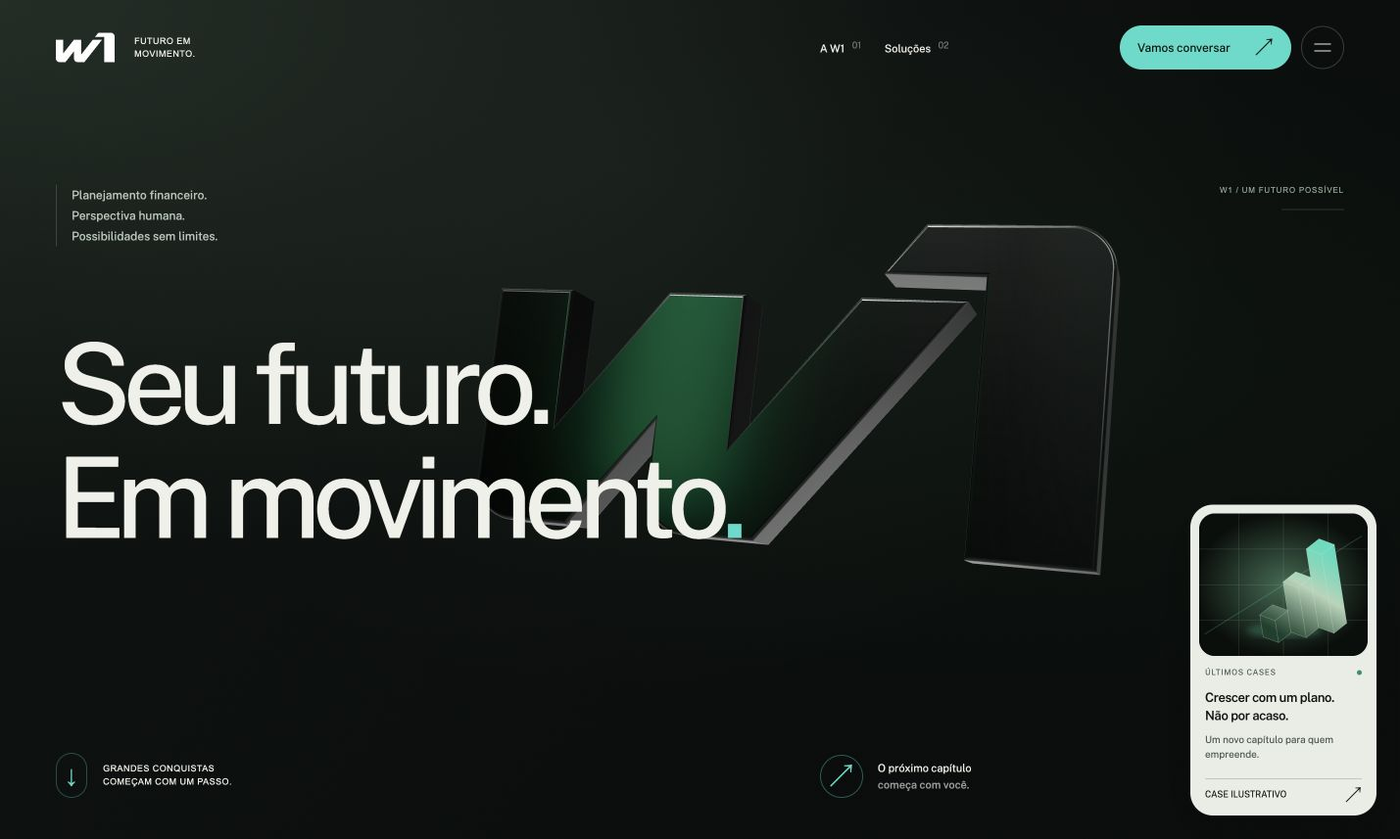
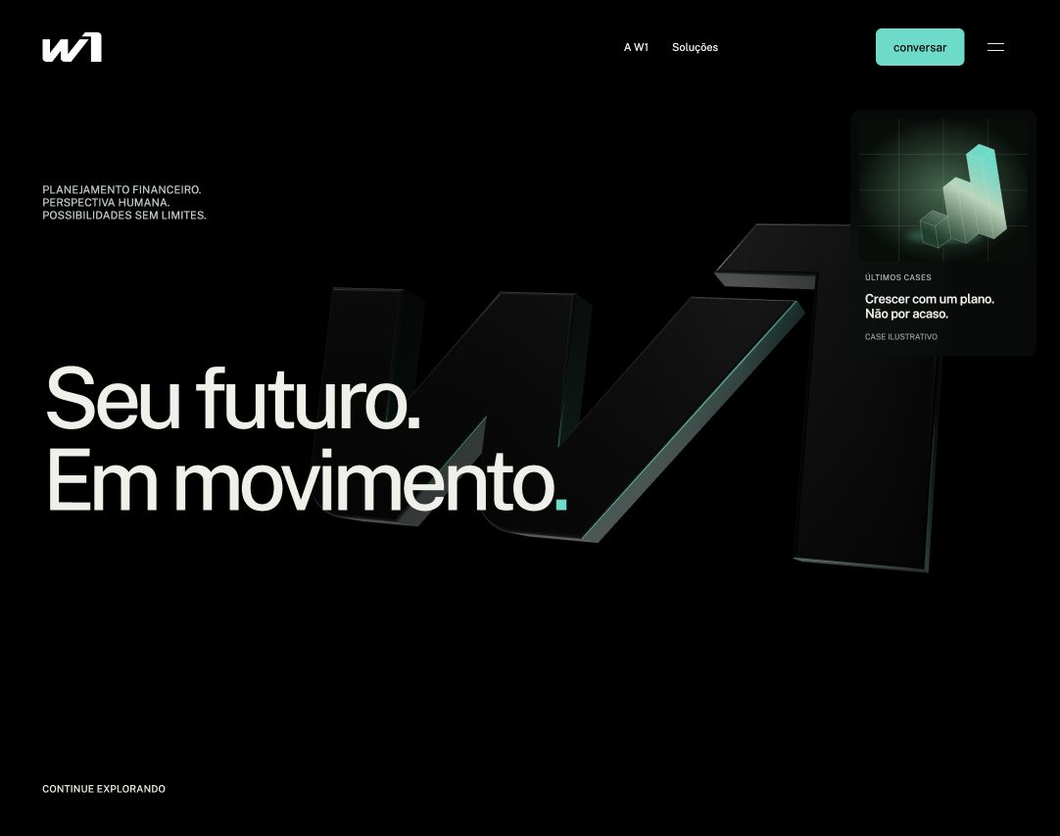
Update Site source

diff --git a/dist/index.html b/dist/index.html
@@ -8,56 +8,55 @@
   <title>W1 — Seu futuro em movimento</title>
   <link rel="icon" href="./assets/w1.svg" type="image/svg+xml">
   <link rel="preload" href="./assets/fonts/PublicSans-Latin.woff2" as="font" type="font/woff2" crossorigin>
-  <link rel="stylesheet" href="./style.css?v=3">
-  <link rel="stylesheet" href="./layout.css?v=3">
+  <link rel="stylesheet" href="./style.css?v=5">
+  <link rel="stylesheet" href="./layout.css?v=5">
+  <link rel="stylesheet" href="./typography.css?v=5">
+  <script>if(!matchMedia('(prefers-reduced-motion: reduce)').matches&&!location.hash){document.documentElement.classList.add('intro-pending');setTimeout(()=>document.documentElement.classList.remove('intro-pending'),6000);}</script>
   <script type="importmap">{"imports":{"three":"./assets/vendor/three.module.js"}}</script>
   <script defer src="./assets/vendor/gsap.min.js"></script>
   <script defer src="./assets/vendor/ScrollTrigger.min.js"></script>
-  <script type="module" src="./app.js?v=3"></script>
+  <script type="module" src="./app.js?v=5"></script>
 </head>
 <body>
 
   <a class="skip-link" href="#solucoes">Ir para as soluções</a>
   <header class="header">
-    <a href="#inicio" class="brand" aria-label="W1 — Início"><img src="./assets/w1.svg" alt="W1" width="72" height="36"><span>FUTURO EM<br>MOVIMENTO.</span></a>
-    <nav class="desktop-nav" aria-label="Navegação principal"><a href="#essencia">A W1 <span>01</span></a><a href="#solucoes">Soluções <span>02</span></a></nav>
-    <div class="header-actions"><a class="contact-pill" href="https://www.w1.com.br/atendimento" target="_blank" rel="noopener">Vamos conversar <span aria-hidden="true">↗</span></a><button class="menu-button" aria-label="Abrir menu" aria-expanded="false" aria-controls="menu"><span></span><span></span></button></div>
+    <a href="#inicio" class="brand" aria-label="W1 — Início"><img src="./assets/w1.svg" alt="W1" width="72" height="36"></a>
+    <nav class="desktop-nav" aria-label="Navegação principal"><a href="#essencia">A W1</a><a href="#solucoes">Soluções</a></nav>
+    <div class="header-actions"><a class="contact-pill" href="https://www.w1.com.br/atendimento" target="_blank" rel="noopener">conversar </a><button class="menu-button" aria-label="Abrir menu" aria-expanded="false" aria-controls="menu"><span></span><span></span></button></div>
   </header>
   <div id="menu" class="menu-overlay" hidden inert>
     <span class="eyebrow">EXPLORE NOVAS POSSIBILIDADES</span>
-    <nav aria-label="Menu"><a href="#inicio"><small>00</small> Início <span>↗</span></a><a href="#essencia"><small>01</small> A essência <span>↗</span></a><a href="#solucoes"><small>02</small> Soluções <span>↗</span></a><a href="#contato"><small>03</small> Seu próximo passo <span>↗</span></a></nav>
+    <nav aria-label="Menu"><a href="#inicio">Início <span></span></a><a href="#essencia">A essência <span></span></a><a href="#solucoes">Soluções <span></span></a><a href="#contato">Seu próximo passo <span></span></a></nav>
     <p>Seu próximo passo começa aqui.</p>
   </div>
   <main>
     <div class="dark-journey" id="inicio">
       <div class="visual-sticky" aria-hidden="true"><div class="ambient-glow"></div><div id="logo-stage"><img class="logo-fallback" src="./assets/w1.svg" alt=""></div></div>
       <section class="hero" aria-labelledby="hero-title">
-        <div class="hero-top"><p>Planejamento financeiro.<br>Perspectiva humana.<br>Possibilidades sem limites.</p><span class="eyebrow hero-index">W1 / UM FUTURO POSSÍVEL</span></div>
+        <div class="hero-top"><p>Planejamento financeiro.<br>Perspectiva humana.<br>Possibilidades sem limites.</p></div>
         <h1 id="hero-title"><span>Seu futuro.</span><span class="second-line">Em movimento<span class="title-period">.</span></span></h1>
         <button type="button" class="case-card" aria-haspopup="dialog" aria-controls="case-dialog">
           <span class="case-card-visual"><img src="./assets/case-preview.svg" alt="Estudo visual de crescimento com formas tridimensionais" width="400" height="320"></span>
-          <span class="case-card-copy"><span class="case-card-label">ÚLTIMOS CASES <i aria-hidden="true"></i></span><span class="case-card-title">Crescer com um plano.<br>Não por acaso.</span><span class="case-card-description">Um novo capítulo para quem empreende.</span><span class="case-card-footer"><span>CASE ILUSTRATIVO</span><span aria-hidden="true">↗</span></span></span>
+          <span class="case-card-copy"><span class="case-card-label">ÚLTIMOS CASES </span><span class="case-card-title">Crescer com um plano.<br>Não por acaso.</span><span class="case-card-footer"><span>CASE ILUSTRATIVO</span></span></span>
         </button>
-        <div class="hero-bottom"><a class="scroll-cue" href="#essencia"><span class="scroll-line" aria-hidden="true">↓</span><span>GRANDES CONQUISTAS<br>COMEÇAM COM UM PASSO.</span></a><a class="hero-cta" href="https://www.w1.com.br/atendimento" target="_blank" rel="noopener"><span class="arrow-orbit" aria-hidden="true">↗</span><span>O próximo capítulo<br><strong>começa com você.</strong></span></a></div>
+        <div class="hero-bottom"><a class="scroll-cue" href="#essencia"><span>continue explorando</span></a></div>
       </section>
       <section class="manifesto" id="essencia" aria-labelledby="manifesto-title">
-        <div class="section-meta"><span class="eyebrow"><i></i> 01 / A W1</span><span class="eyebrow">PLANEJAMENTO QUE ACOMPANHA VOCÊ.</span></div>
-        <div class="manifesto-copy"><h2 id="manifesto-title">Sua vida é única.<br>Seu planejamento<br><em>também precisa ser.</em></h2><div class="manifesto-aside"><span class="mini-line"></span><p>Somos a W1. Um ecossistema que une conhecimento financeiro, tecnologia e um olhar humano para acompanhar as suas ambições.</p><a class="text-link" href="#solucoes">Conheça nossas soluções <span>↗</span></a></div></div>
-        <div class="manifesto-bottom"><span class="eyebrow">DO PRIMEIRO PLANO AO SEU LEGADO.</span><span class="eyebrow">SEMPRE EM FRENTE. ↘</span></div>
+        <div class="manifesto-copy"><h2 id="manifesto-title">Sua vida é única.<br>Seu planejamento<br><em>também precisa ser.</em></h2><div class="manifesto-aside"><p>Somos a W1. Um ecossistema que une conhecimento financeiro, tecnologia e um olhar humano para acompanhar as suas ambições.</p><a class="text-link" href="#solucoes">Conheça nossas soluções <span></span></a></div></div>
       </section>
-      <div class="marquee" aria-label="Planejar, conquistar, transformar, evoluir"><div class="marquee-track" aria-hidden="true"><span>PLANEJAR <b>↗</b> CONQUISTAR <b>✳</b> TRANSFORMAR <b>↗</b> EVOLUIR <b>✳</b>&nbsp;</span><span>PLANEJAR <b>↗</b> CONQUISTAR <b>✳</b> TRANSFORMAR <b>↗</b> EVOLUIR <b>✳</b>&nbsp;</span></div></div>
+      <div class="marquee" aria-label="Planejar, conquistar, transformar, evoluir"><div class="marquee-track" aria-hidden="true"><span>PLANEJAR  CONQUISTAR  TRANSFORMAR  EVOLUIR &nbsp;</span><span>PLANEJAR  CONQUISTAR  TRANSFORMAR  EVOLUIR &nbsp;</span></div></div>
     </div>
     <section class="solutions" id="solucoes" aria-labelledby="solutions-title">
-      <div class="section-meta"><span class="eyebrow"><i></i> 02 / POSSIBILIDADES REAIS</span><span class="eyebrow">UM ECOSSISTEMA. O SEU MOMENTO.</span></div>
       <div class="solutions-intro"><h2 id="solutions-title">Muito além<br>dos <span>números.</span></h2><p>Uma visão completa das suas finanças.<br>Um caminho que faz sentido para você.</p></div>
       <div class="solution-list">
-        <details open><summary><span class="solution-number">01</span><h3>Planejamento financeiro</h3><span class="solution-tag">O SEU PONTO DE PARTIDA</span><span class="solution-plus">+</span></summary><div class="solution-content"><p>Clareza para decidir. Estratégia para avançar. Um planejamento financeiro 360° construído a partir da sua vida e dos seus objetivos.</p><a href="https://www.w1.com.br/w1-consultoria" target="_blank" rel="noopener">Explore a W1 Consultoria <span>↗</span></a></div></details>
-        <details><summary><span class="solution-number">02</span><h3>Investimentos</h3><span class="solution-tag">CAPITAL COM PROPÓSITO</span><span class="solution-plus">+</span></summary><div class="solution-content"><p>Assessoria de investimentos alinhada ao seu perfil e ao futuro que você deseja construir.</p><a href="https://www.w1.com.br/w1-capital" target="_blank" rel="noopener">Conheça a W1 Capital <span>↗</span></a></div></details>
-        <details><summary><span class="solution-number">03</span><h3>Patrimônio & legado</h3><span class="solution-tag">PENSE NAS PRÓXIMAS GERAÇÕES</span><span class="solution-plus">+</span></summary><div class="solution-content"><p>Planejamento sucessório e estruturação patrimonial para dar continuidade à sua história.</p><a href="https://www.w1.com.br/w1-consultoria-patrimonial" target="_blank" rel="noopener">Explore a Consultoria Patrimonial <span>↗</span></a></div></details>
-        <details><summary><span class="solution-number">04</span><h3>Seu negócio</h3><span class="solution-tag">VISÃO PARA CRESCER</span><span class="solution-plus">+</span></summary><div class="solution-content"><p>Planejamento financeiro que considera as necessidades e os próximos desafios da sua empresa.</p><a href="https://www.w1.com.br/w1-business" target="_blank" rel="noopener">Conheça a W1 Business <span>↗</span></a></div></details>
+        <details open><summary><h3>Planejamento financeiro</h3><span class="solution-plus">+</span></summary><div class="solution-content"><p>Clareza para decidir. Estratégia para avançar. Um planejamento financeiro 360° construído a partir da sua vida e dos seus objetivos.</p><a href="https://www.w1.com.br/w1-consultoria" target="_blank" rel="noopener">Explore a W1 Consultoria <span></span></a></div></details>
+        <details><summary><h3>Investimentos</h3><span class="solution-plus">+</span></summary><div class="solution-content"><p>Assessoria de investimentos alinhada ao seu perfil e ao futuro que você deseja construir.</p><a href="https://www.w1.com.br/w1-capital" target="_blank" rel="noopener">Conheça a W1 Capital <span></span></a></div></details>
+        <details><summary><h3>Patrimônio & legado</h3><span class="solution-plus">+</span></summary><div class="solution-content"><p>Planejamento sucessório e estruturação patrimonial para dar continuidade à sua história.</p><a href="https://www.w1.com.br/w1-consultoria-patrimonial" target="_blank" rel="noopener">Explore a Consultoria Patrimonial <span></span></a></div></details>
+        <details><summary><h3>Seu negócio</h3><span class="solution-plus">+</span></summary><div class="solution-content"><p>Planejamento financeiro que considera as necessidades e os próximos desafios da sua empresa.</p><a href="https://www.w1.com.br/w1-business" target="_blank" rel="noopener">Conheça a W1 Business <span></span></a></div></details>
       </div>
     </section>
-    <footer id="contato"><div class="footer-top"><span class="eyebrow"><i></i> O SEU PRÓXIMO PASSO</span><span class="eyebrow">VAMOS CONSTRUIR JUNTOS.</span></div><a class="footer-cta" href="https://www.w1.com.br/atendimento" target="_blank" rel="noopener">O futuro<br>começa agora.<span aria-hidden="true">↗</span></a><div class="footer-bottom"><img src="./assets/w1.svg" alt="W1" width="64" height="32"><span>© 2026 W1 · Estudo de experiência digital</span><a href="#inicio">Voltar ao início ↑</a></div></footer>
+    <footer id="contato"><a class="footer-cta" href="https://www.w1.com.br/atendimento" target="_blank" rel="noopener">O futuro<br>começa agora.</a><div class="footer-bottom"><img src="./assets/w1.svg" alt="W1" width="64" height="32"><span>© 2026 W1 · Estudo de experiência digital</span><a href="#inicio">Voltar ao início </a></div></footer>
   </main>
   <dialog id="case-dialog" class="case-dialog" aria-labelledby="case-title">
     <button type="button" class="case-dialog-close" aria-label="Fechar case">×</button>
@@ -66,7 +65,7 @@
     <p class="case-intro">Clínica Aurora · empresa fictícia</p>
     <div class="case-steps"><div><span>01 / O MOMENTO</span><h3>Vontade de expandir.</h3><p>Uma clínica em crescimento precisa organizar o caixa antes de dar o próximo passo e abrir uma nova unidade.</p></div><div><span>02 / O CAMINHO</span><h3>Clareza para decidir.</h3><p>Um cenário de planejamento reúne custos, reservas e metas para avaliar o momento e o tamanho da expansão.</p></div><div><span>03 / A POSSIBILIDADE</span><h3>Um plano para crescer.</h3><p>A simulação mostra como decisões financeiras podem se conectar aos objetivos do negócio.</p></div></div>
     <p class="case-disclaimer">Case fictício criado para demonstrar esta proposta de página. Não representa um cliente, serviço contratado ou resultado real da W1.</p>
-    <a class="contact-pill" href="https://www.w1.com.br/atendimento" target="_blank" rel="noopener">Vamos conversar <span>↗</span></a>
+    <a class="contact-pill" href="https://www.w1.com.br/atendimento" target="_blank" rel="noopener">conversar <span></span></a>
   </dialog>
 </body>
 </html>

diff --git a/dist/app.js b/dist/app.js
@@ -7,10 +7,40 @@ const motionQuery = window.matchMedia('(prefers-reduced-motion: reduce)');
 const mobile = () => window.innerWidth <= 800;
 const state = { light: 0, turn: 0, size: 1, x: .85, y: 0, alpha: 1, pointerX: 0, pointerY: 0 };
 const pointer = { x: 0, y: 0 };
-const arrival = { progress: motionQuery.matches ? 1 : 0 };
+const introRoot = document.documentElement;
+if (motionQuery.matches) introRoot.classList.remove('intro-pending');
+const startsWithLogo = introRoot.classList.contains('intro-pending');
+const arrival = { progress: startsWithLogo ? 0 : 1, reveal: startsWithLogo ? 0 : 1 };
 let renderer, scene, camera, logo, animationFrame, greenSoftbox;
 let isVisible = true;
 const stage = document.getElementById('logo-stage');
+
+function createSurfaceTexture() {
+  const size = 128;
+  const pixels = new Uint8Array(size * size * 4);
+  let seed = 731;
+  for (let i = 0; i < size * size; i++) {
+    seed = (seed * 1664525 + 1013904223) >>> 0;
+    const grain = 204 + (seed >>> 29);
+    pixels[i*4] = pixels[i*4+1] = pixels[i*4+2] = grain;
+    pixels[i*4+3] = 255;
+  }
+  const texture = new THREE.DataTexture(pixels, size, size);
+  texture.wrapS = texture.wrapT = THREE.RepeatWrapping;
+  texture.repeat.set(.065, .065);
+  texture.minFilter = THREE.LinearMipmapLinearFilter;
+  texture.magFilter = THREE.LinearFilter;
+  texture.generateMipmaps = true;
+  texture.needsUpdate = true;
+  return texture;
+}
+
+function revealInterface() {
+  introRoot.classList.remove('intro-pending');
+  if (window.gsap) {
+    window.gsap.fromTo('.header, .hero-top, .hero h1, .hero-bottom, .case-card', { autoAlpha: 0 }, { autoAlpha: 1, duration: .55, stagger: .045, ease: 'power2.out', onComplete: () => window.ScrollTrigger?.refresh() });
+  }
+}
 
 async function createLogo() {
   try {
@@ -27,24 +57,36 @@ async function createLogo() {
     const pmrem = new THREE.PMREMGenerator(renderer);
     const room = new RoomEnvironment();
     scene.environment = pmrem.fromScene(room, .04).texture;
-    scene.environmentIntensity = .7;
+    scene.environmentIntensity = .35;
     room.dispose();
     pmrem.dispose();
-    const key = new THREE.DirectionalLight(0xffffff, 1.8);
-    key.position.set(-4, 6, 5);
+    const key = new THREE.DirectionalLight(0xffffff, 1.1);
+    key.position.set(-4, 6, 2);
     scene.add(key);
-    const rim = new THREE.DirectionalLight(0xadbdb6, 1.4);
+    const rim = new THREE.DirectionalLight(0xb6bdb9, .8);
     rim.position.set(5, 2, -2);
     scene.add(rim);
-    const lower = new THREE.DirectionalLight(0xc9ddd4, .65);
+    const lower = new THREE.DirectionalLight(0xd4d8d5, .3);
     lower.position.set(1, -5, 3);
     scene.add(lower);
     // A physical green strip light sweeps across the black metal as you scroll.
     // The material itself keeps its original graphite color throughout.
     RectAreaLightUniformsLib.init();
-    greenSoftbox = new THREE.RectAreaLight(0x32e6a3, 16, 1.8, 6);
+    greenSoftbox = new THREE.RectAreaLight(0x32ddc9, 22, 2.2, 6);
     scene.add(greenSoftbox);
-    const material = new THREE.MeshPhysicalMaterial({ color: 0x1b211e, metalness: .96, roughness: .24, clearcoat: 1, clearcoatRoughness: .19, envMapIntensity: 1.9 });
+    const surface = createSurfaceTexture();
+    const faceMaterial = new THREE.MeshPhysicalMaterial({ color: 0x090b0a, metalness: .28, roughness: .48, roughnessMap: surface, bumpMap: surface, bumpScale: .002, clearcoat: .85, clearcoatRoughness: .22, envMapIntensity: .65 });
+    const edgeMaterial = new THREE.MeshPhysicalMaterial({ color: 0x111714, metalness: .55, roughness: .23, clearcoat: 1, clearcoatRoughness: .14, envMapIntensity: 1.2 });
+    // Keep the broad black face neutral; the bevel and side material carry
+    // the colored rim. This avoids a bright green wash over the core.
+    faceMaterial.onBeforeCompile = shader => {
+      shader.fragmentShader = shader.fragmentShader.replace('#include <opaque_fragment>', `
+        float neutralFinish = min(outgoingLight.r, min(outgoingLight.g, outgoingLight.b));
+        outgoingLight = vec3(neutralFinish) + (outgoingLight - vec3(neutralFinish)) * 0.06;
+        #include <opaque_fragment>
+      `);
+    };
+    const material = [faceMaterial, edgeMaterial];
     const response = await fetch('./assets/w1.svg');
     if (!response.ok) throw new Error('Logo indisponível');
     const svg = new SVGLoader().parse(await response.text());
@@ -68,13 +110,18 @@ async function createLogo() {
       document.body.classList.remove('webgl-ready');
     });
     renderer.domElement.addEventListener('webglcontextrestored', () => { document.body.classList.add('webgl-ready'); tick(); });
-    if (window.gsap && !motionQuery.matches && window.scrollY < window.innerHeight * .25) {
-      window.gsap.to(arrival, { progress: 1, duration: 2.2, ease: 'power3.inOut' });
+    if (window.gsap && introRoot.classList.contains('intro-pending')) {
+      const opening = window.gsap.timeline({ defaults: { ease: 'power3.inOut' } });
+      opening.to(arrival, { reveal: 1, duration: .25 }, 0)
+        .to(arrival, { progress: 1, duration: 1.35 }, .15)
+        .call(revealInterface);
     } else {
-      arrival.progress = 1;
+      arrival.progress = arrival.reveal = 1;
+      introRoot.classList.remove('intro-pending');
     }
     tick();
   } catch (error) {
+    introRoot.classList.remove('intro-pending');
     console.warn('Exibindo a versão vetorial da marca.', error.message);
     renderer?.domElement.remove();
     document.body.classList.remove('webgl-ready');
@@ -98,14 +145,15 @@ function tick() {
   const fitScale = mobile() ? Math.min(.84, camera.aspect * .9) : Math.min(.88, camera.aspect * .75);
   const enter = reduced ? 1 : arrival.progress;
   const intro = 1 - enter;
-  logo.rotation.set(-.16 + intro*.11 + state.turn*.06 + state.pointerY*.08, -.34 + intro*.24 - state.turn*.12 + state.pointerX*.12, -.11 + intro*.11 + state.turn*.035);
+  logo.rotation.set(-.16 + state.turn*.04 + state.pointerY*.08, -.34 - state.turn*.1 + state.pointerX*.12, -.11 + state.turn*.025);
   logo.position.set(mobile() ? 0 : state.x * enter, (.35 + state.y) * enter, 0);
-  logo.scale.setScalar(fitScale * state.size * (1 + intro * .45));
+  logo.scale.setScalar(fitScale * state.size * (1 + intro * .28));
   const progress = reduced ? .15 : state.light;
-  greenSoftbox.position.set(logo.position.x - 5 + progress * 11, 3.5 - progress * 5, 4.5);
+  const angle = -.85 + progress * Math.PI * 1.6;
+  greenSoftbox.position.set(logo.position.x + Math.cos(angle) * 5.4, logo.position.y + Math.sin(angle) * 3.8, -.25);
   greenSoftbox.lookAt(logo.position.x, logo.position.y, 0);
-  greenSoftbox.intensity = (10 + Math.sin(progress * Math.PI) * 14) * (.25 + .75 * enter);
-  renderer.domElement.style.opacity = String(state.alpha);
+  greenSoftbox.intensity = (18 + Math.sin(progress * Math.PI) * 12) * enter * enter;
+  renderer.domElement.style.opacity = String(state.alpha * arrival.reveal);
   renderer.render(scene, camera);
 }
 
@@ -126,7 +174,6 @@ if (gsap && ScrollTrigger) {
   media.add({ full: '(prefers-reduced-motion: no-preference)', reduced: '(prefers-reduced-motion: reduce)' }, context => {
     gsap.set(state, { light: 0, turn: 0, size: 1, x: .85, y: 0, alpha: 1 });
     if (context.conditions.full) {
-      gsap.from('.hero h1 > span', { yPercent: 20, autoAlpha: 0, duration: 1.2, delay: .65, stagger: .1, ease: 'power3.out' });
       gsap.fromTo('.hero h1', { y: 0, autoAlpha: 1 }, { y: -70, autoAlpha: 0, ease: 'none', scrollTrigger: { trigger: '.hero', start: '12% top', end: 'bottom 20%', scrub: .5 } });
       gsap.fromTo('.hero-top, .hero-bottom, .case-card', { autoAlpha: 1, y: 0 }, { autoAlpha: 0, y: -25, ease: 'none', scrollTrigger: { trigger: '.hero', start: '10% top', end: '70% top', scrub: .4 } });
       const journey = gsap.timeline({ defaults: { ease: 'none' }, scrollTrigger: { trigger: '.dark-journey', start: 'top top', end: 'bottom bottom', scrub: .8 } });

diff --git a/dist/layout.css b/dist/layout.css
@@ -110,3 +110,40 @@ body:after{background-image:url('./assets/grain.svg');background-size:128px 128p
 @media(max-width:800px){.case-card{width:145px;right:20px;bottom:20px}.hero-bottom{display:flex;flex-direction:column;align-items:flex-start;right:185px;bottom:30px;gap:18px}.hero-cta{align-self:flex-start;justify-self:start}.header.scrolled{width:min(500px,calc(100% - 28px));top:12px;padding:8px 10px;gap:14px}.header.scrolled .brand{grid-column:2}.header.scrolled .menu-button{grid-column:1}.header.scrolled .contact-pill{grid-column:3;font-size:9px;padding:11px 13px;gap:14px}.hero-top p{padding-left:12px}.hero-index:after{width:38px}}
 @media(max-width:500px){.case-card{width:128px;right:18px;bottom:18px}.hero-bottom{right:165px;bottom:28px;gap:18px}.hero-cta{font-size:8px}.header.scrolled .brand img{width:36px}.header.scrolled .contact-pill{padding:11px 12px;font-size:9px;gap:12px}.section-meta>.eyebrow:first-child{padding-top:12px}.case-card-title{font-size:10px}}
 .ambient-glow{background:radial-gradient(ellipse at 0% 0%,#8bc99d25,transparent 47%),radial-gradient(ellipse at 72% 42%,#31745114,transparent 50%),radial-gradient(ellipse at 45% 20%,#b6c3b40b,transparent 57%),linear-gradient(130deg,#0d1210,#080c0a 70%)}
+/* Black stage and a logo-first arrival. */
+:root{--black:#000}
+body{background:#000}body:after{display:none}.ambient-glow{background:#000}
+.header.scrolled{background:rgba(0,0,0,.84)}
+.manifesto-copy:before{background:linear-gradient(180deg,transparent,#000 24%,#000 76%,transparent)}
+.case-dialog{background:#080a09}
+html.intro-pending{overflow:hidden}
+html.intro-pending .header,html.intro-pending .hero-top,html.intro-pending .hero h1,html.intro-pending .hero-bottom,html.intro-pending .case-card{opacity:0!important;visibility:hidden!important}
+html.intro-pending .logo-fallback{opacity:0}
+.contact-pill:hover{background:#75e7da}
+html.intro-pending .manifesto,html.intro-pending .marquee,html.intro-pending .solutions,html.intro-pending footer{visibility:hidden!important}
+/* Quiet UI: translucent surfaces, short labels and functional controls. */
+.contact-pill{border-radius:6px;gap:0;text-transform:none;font-size:12px;line-height:1}
+.menu-button{border:0;border-radius:6px}
+.header.scrolled{border:0;border-radius:10px;background:rgba(10,12,11,.56);backdrop-filter:blur(24px);-webkit-backdrop-filter:blur(24px);box-shadow:0 8px 28px #0002}
+.header.scrolled.light{border:0;background:rgba(240,240,233,.62)}
+.header.scrolled .contact-pill{border-radius:5px;gap:0;font-size:11px;padding:12px 18px}
+.header.scrolled .menu-button{border:0;border-radius:5px}
+.header.scrolled.menu-open{border:0}
+.case-card{top:112px;right:24px;bottom:auto;width:190px;border:0;border-radius:10px;padding:9px;background:rgba(13,16,15,.58);color:var(--paper);backdrop-filter:blur(18px);-webkit-backdrop-filter:blur(18px);box-shadow:none}
+.case-card:hover{box-shadow:none;transform:translateY(-3px);background:rgba(18,23,21,.68)}
+.case-card-visual{border-radius:6px}.case-card-visual:before{display:none}
+.case-card-label{color:#a9b5ae;margin-bottom:10px;letter-spacing:.045em}
+.case-card-title{font-size:13px;color:var(--paper)}
+.case-card-footer{border:0;margin-top:12px;padding-top:0;color:#919e96}
+.case-card-footer>span:last-child{font-size:8px;line-height:1.15}
+.hero-top p{border:0;padding-left:0}.hero-bottom{right:var(--gutter)}
+.scroll-cue{font-family:inherit;font-size:10px;letter-spacing:.02em;text-transform:uppercase}
+.manifesto{height:100svh;min-height:720px;grid-template-rows:1fr;row-gap:0;padding-top:10svh;padding-bottom:10svh}
+.manifesto-aside{padding-top:20px}.manifesto-aside p{margin-top:0}
+.solutions-intro{margin:25px 0 55px}
+.solution-content{padding-left:0}summary{gap:0}.solution-plus{margin-left:auto}
+.marquee-track>span{word-spacing:.25em}
+.text-link{border:0;padding-bottom:0}
+@media(max-width:1050px){.case-card{width:170px;top:108px;right:24px}}
+@media(max-width:800px){.case-card{width:145px;top:108px;right:20px;bottom:auto;border-radius:9px}.case-card-visual{border-radius:5px}.case-card-title{font-size:11px}.header.scrolled .contact-pill{font-size:10px;padding:12px 16px}.manifesto{height:100svh;min-height:760px}.solution-content{padding-left:0}.hero-bottom{right:var(--gutter);display:block}}
+@media(max-width:500px){.case-card{width:128px;top:102px;right:18px;bottom:auto}.case-card-title{font-size:10px}.case-card-label{font-size:7px}.case-card-footer>span:last-child{font-size:7px}.header.scrolled .contact-pill{font-size:10px;padding:12px 14px}.contact-pill{font-size:11px}.scroll-cue{font-size:9px}.manifesto{min-height:740px}.solution-content{padding-left:0}}

diff --git a/dist/typography.css b/dist/typography.css
@@ -1,0 +1,22 @@
+/* Compact editorial typesetting, with a readable measure for each scale. */
+:root{--display-leading:.96;--copy-leading:1.2}
+.hero h1{line-height:var(--display-leading);letter-spacing:-.07em}
+.manifesto h2{line-height:.99;letter-spacing:-.055em}
+.solutions h2,.footer-cta{line-height:.96}
+.hero-top p{font-size:11px;line-height:1.18;letter-spacing:.01em;text-transform:uppercase;text-wrap:balance}
+.brand span{line-height:1.15}.eyebrow{line-height:1.15;letter-spacing:.065em}
+.hero-cta,.scroll-cue{line-height:1.2}
+.manifesto-aside p{font-size:clamp(18px,1.5vw,22px);line-height:1.16;letter-spacing:-.035em;font-weight:400;max-width:29ch;text-wrap:pretty;margin-bottom:20px}
+.manifesto-aside .mini-line{margin-bottom:16px}
+.text-link{font-size:10px;line-height:1.15;letter-spacing:.035em;text-transform:uppercase;padding-bottom:9px}
+.solutions-intro>p{font-size:18px;line-height:1.2;letter-spacing:-.025em;max-width:29ch;text-wrap:pretty}
+summary h3{line-height:1.06;letter-spacing:-.04em}
+.solution-content p{font-size:14px;line-height:1.28;letter-spacing:-.015em;max-width:48ch;text-wrap:pretty}
+.solution-content a{font-size:10px;line-height:1.15;text-transform:uppercase;letter-spacing:.025em}
+.case-card-title{line-height:1.15;letter-spacing:-.025em}.case-card-description{line-height:1.23}.case-card-label,.case-card-footer{line-height:1.1}
+.case-dialog h2{line-height:.99;letter-spacing:-.05em}.case-intro{font-size:11px;line-height:1.15;letter-spacing:.03em;text-transform:uppercase}
+.case-steps h3{line-height:1.08;margin:14px 0 10px}.case-steps p{font-size:14px;line-height:1.25;letter-spacing:-.015em;text-wrap:pretty}
+.case-disclaimer{line-height:1.3}
+@media(max-width:1050px){.manifesto-aside p{font-size:18px}.solutions-intro>p{font-size:16px}}
+@media(max-width:800px){.hero h1{line-height:.98}.hero-top p{font-size:10px;line-height:1.17}.manifesto h2{line-height:1.01}.manifesto-aside p{font-size:19px;line-height:1.18;max-width:28ch}.solutions-intro>p{font-size:16px;line-height:1.22}.solution-content p{font-size:14px;line-height:1.28}}
+@media(max-width:500px){.hero h1{line-height:.98}.hero-top p{font-size:9px;line-height:1.18}.manifesto h2{line-height:1.02}.manifesto-aside p{font-size:18px;line-height:1.2}.solutions h2{line-height:.97}.case-card-title{line-height:1.15}.case-steps p{line-height:1.28}}

diff --git a/README.md b/README.md
@@ -1,6 +1,6 @@
 # W1 — Seu futuro em movimento
 
-Proposta navegável com logo 3D em metal preto, iluminação verde vinculada ao scroll e direção editorial.
+Proposta navegável com logo 3D em plástico metalizado preto, iluminação verde vinculada ao scroll e direção editorial.
 
 [Abrir a proposta](https://w1-future-in-motion.insany-team-1573.chatgpt.site)
 
@@ -12,22 +12,26 @@ python3 -m http.server 4184 --directory dist
 
 Acesse http://localhost:4184. Não há instalação de dependências nem build. Fontes, scripts e assets são locais.
 
-## Revisão 03
+## Revisão 04
 
-- Hero de uma altura de viewport. Na entrada, o logo sólido original aparece maior no centro, diminui e gira suavemente até a composição final, mantendo a reação ao mouse.
-- Uma luz retangular verde muda de posição conforme o scroll. O material permanece preto; a cor aparece como reflexão da iluminação.
+- A abertura mostra primeiro apenas o logo sobre preto. Ele diminui até a posição final e, depois, textos e navegação entram suavemente, sem contador ou indicador de progresso.
+- O objeto tem faces pretas com microtextura discreta e acabamento de plástico metalizado; os bevels e as laterais recebem o destaque da luz.
+- A iluminação usa a mesma cor da interface (`#32ddc9`) e percorre o perímetro no scroll. O miolo permanece predominantemente preto.
+- Fundo preto puro, sem granulação nem iluminação de fundo.
+- Tipografia editorial com entrelinhas mais fechadas, parágrafos de apoio maiores e compactos, medidas controladas e alguns apoios em caixa alta.
 - Passagem direta da abertura para o manifesto, seguida do marquee sem divisória superior.
-- Grid editorial para a diagramação, com apenas alguns traços visuais pontuais. A malha de linhas verticais foi retirada.
-- Fundo suave com verde discreto, iluminação no canto superior esquerdo e granulação fina de baixa intensidade em escala fixa de pixels.
-- Header que se condensa em uma cápsula central flutuante: menu à esquerda, logo ao centro e contato à direita.
-- Card no canto inferior direito da abertura, com um case ilustrativo em diálogo acessível.
-- Layout responsivo, navegação interna, acordeões, links oficiais, movimento reduzido e fallback vetorial.
+- Grid editorial para a diagramação, com apoios visuais discretos e sem numerações decorativas.
+- Header que se condensa em uma barra central flutuante, com blur, sem borda e com cantos discretos: menu à esquerda, logo ao centro e CTA “conversar” à direita.
+- Card preto translúcido no canto superior direito da abertura, com blur e case ilustrativo em diálogo acessível.
+- Interface sem setas e com menos elementos decorativos.
+- Layout responsivo, navegação interna, acordeões, links oficiais, movimento reduzido e fallback vetorial. A abertura tem uma saída de segurança caso os recursos não carreguem.
 
 ## Arquivos
 
 - `dist/app.js`: geometria extrudada, material físico, softbox verde, mouse, scroll e navegação.
 - `dist/layout.css`: direção de arte, composição responsiva e menu flutuante.
 - `dist/style.css`: estilos base, soluções e rodapé.
+- `dist/typography.css`: entrelinhas, medidas de texto e hierarquia editorial.
 - `dist/index.html`: conteúdo e marcação.
 
 Three.js 0.180, GSAP 3.13 e ScrollTrigger estão em `dist/assets/vendor`. A iluminação retangular usa a biblioteca de uniformes LTC da própria Three.js. Public Sans e Three.js são distribuídas com suas licenças.
